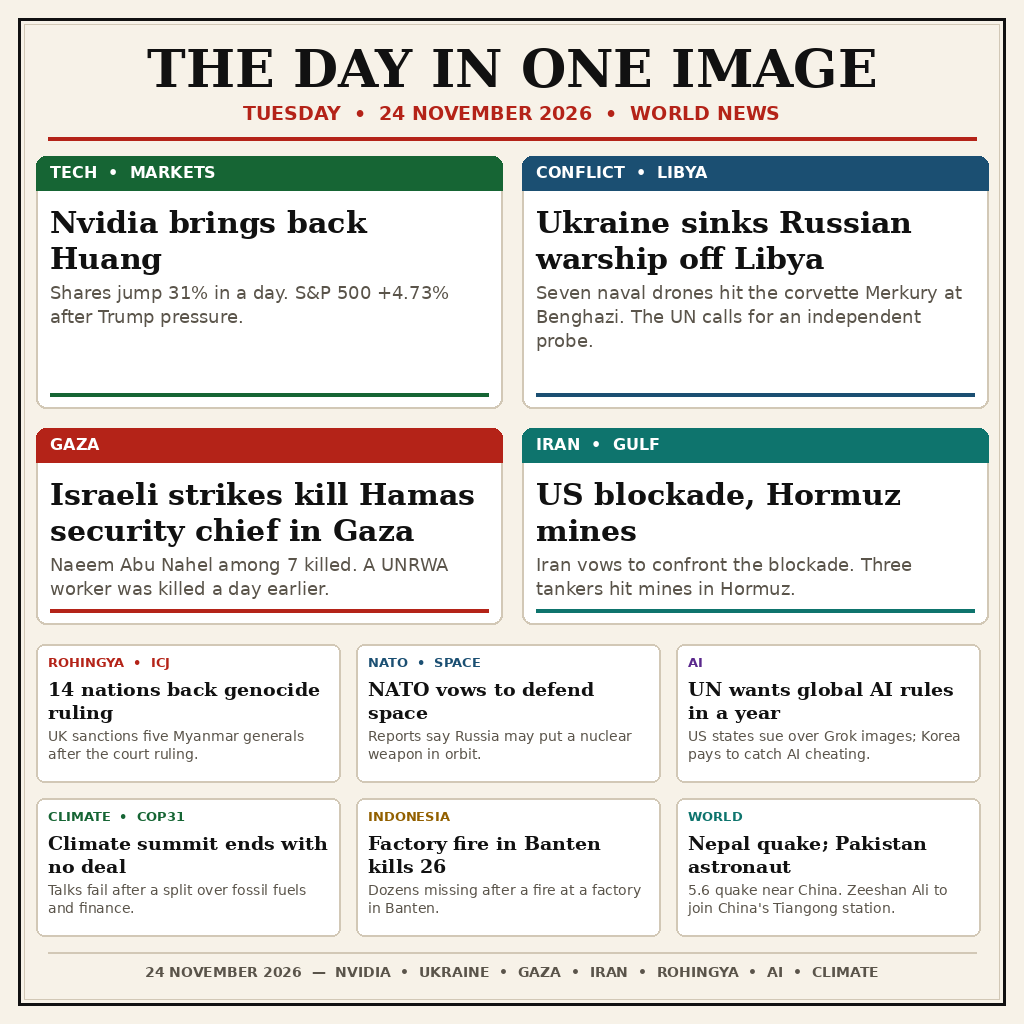
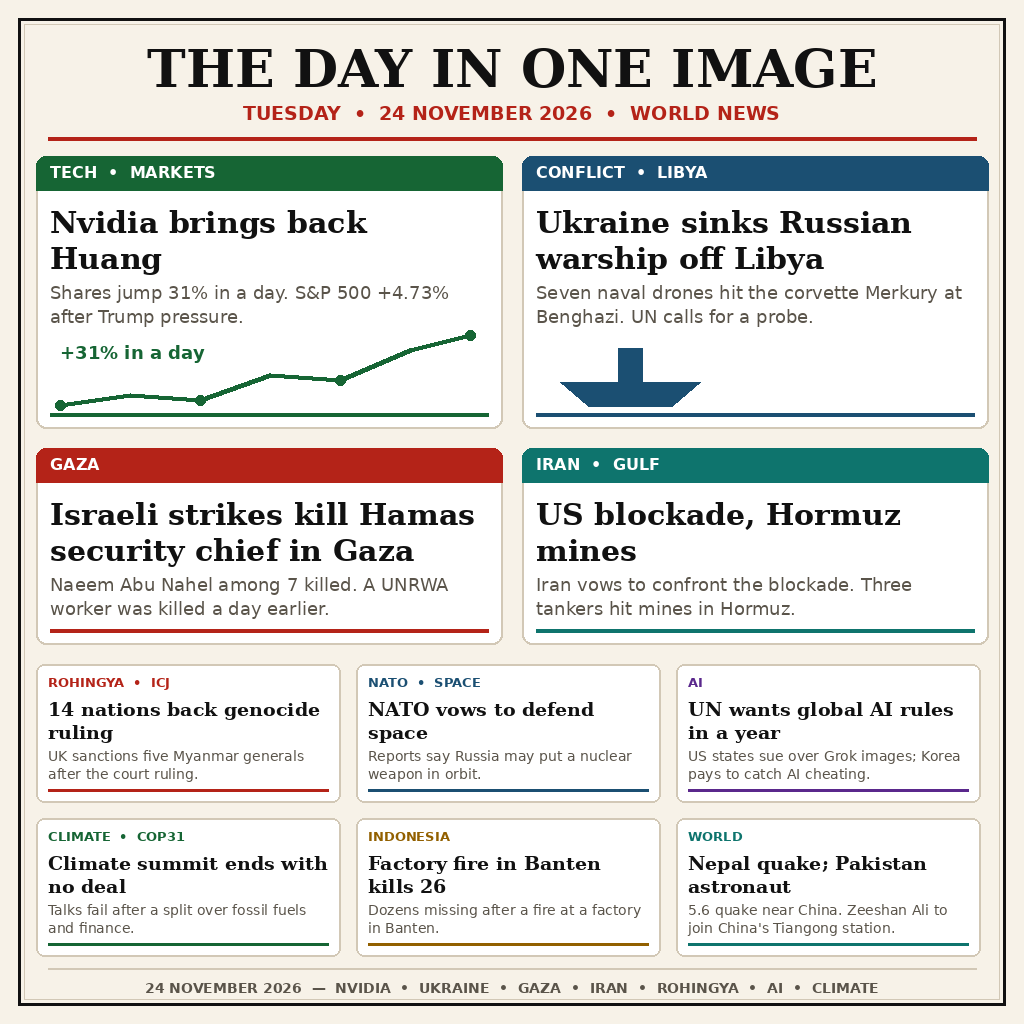
Improve lead visuals: chart and ship, colored card bars

diff --git a/build_image.py b/build_image.py
@@ -68,19 +68,29 @@ def panel(x, y, w, h, kicker, kcolor, headline, sub, accent):
     d.line([(x+14, y+h-14), (x+w-14, y+h-14)], fill=accent, width=4)
 
 # lead row
-panel(36, 156, 466, 252, "TECH  •  MARKETS", GREEN,
+panel(36, 156, 466, 272, "TECH  •  MARKETS", GREEN,
       "Nvidia brings back Huang",
       "Shares jump 31% in a day. S&P 500 +4.73% after Trump pressure.", GREEN)
 
-panel(522, 156, 466, 252, "CONFLICT  •  LIBYA", BLUE,
+panel(522, 156, 466, 272, "CONFLICT  •  LIBYA", BLUE,
       "Ukraine sinks Russian warship off Libya",
-      "Seven naval drones hit the corvette Merkury at Benghazi. The UN calls for an independent probe.", BLUE)
+      "Seven naval drones hit the corvette Merkury at Benghazi. UN calls for a probe.", BLUE)
+
+# visuals in the empty strip at the bottom of the lead panels (below the text)
+# Nvidia: rising chart, +31% label
+d.line([(60, 405), (130, 395), (200, 400), (270, 375), (340, 380), (410, 350), (470, 335)], fill=GREEN, width=5, joint="curve")
+for (px, py) in [(60, 405), (200, 400), (340, 380), (470, 335)]:
+    d.ellipse([px-5, py-5, px+5, py+5], fill=GREEN)
+d.text((60, 342), "+31% in a day", font=font(SANS_B, 18), fill=GREEN, anchor="la")
+# Libya: ship silhouette on waves
+d.rectangle([618, 348, 642, 382], fill=BLUE)
+d.polygon([(560, 382), (700, 382), (672, 406), (588, 406)], fill=BLUE)
 
 # second row
-panel(36, 428, 466, 196, "GAZA", RED,
+panel(36, 448, 466, 196, "GAZA", RED,
       "Israeli strikes kill Hamas security chief in Gaza",
       "Naeem Abu Nahel among 7 killed. A UNRWA worker was killed a day earlier.", RED)
-panel(522, 428, 466, 196, "IRAN  •  GULF", TEAL,
+panel(522, 448, 466, 196, "IRAN  •  GULF", TEAL,
       "US blockade, Hormuz mines",
       "Iran vows to confront the blockade. Three tankers hit mines in Hormuz.", TEAL)
 
@@ -96,15 +106,16 @@ cards = [
 cw, ch, gap = 304, 138, 16
 for i, (kick, head, sub, col) in enumerate(cards):
     x = 36 + (i % 3) * (cw + gap)
-    y = 644 + (i // 3) * (ch + gap)
+    y = 664 + (i // 3) * (ch + gap)
     d.rounded_rectangle([x, y, x+cw, y+ch], radius=8, fill=CARD, outline=LINE, width=2)
     d.text((x+12, y+10), kick, font=font(SANS_B, 13), fill=col)
     yy = draw_lines(d, wrap(d, head, font(SERIF_B, 19), cw-24), x+12, y+34, font(SERIF_B, 19), INK, 23)
     draw_lines(d, wrap(d, sub, font(SANS, 14), cw-24), x+12, yy+4, font(SANS, 14), MUTED, 18)
+    d.line([(x+12, y+ch-12), (x+cw-12, y+ch-12)], fill=col, width=3)
 
 # footer
-d.line([(48, 952), (976, 952)], fill=LINE, width=2)
-d.text((512, 964), "24 NOVEMBER 2026  —  NVIDIA  •  UKRAINE  •  GAZA  •  IRAN  •  ROHINGYA  •  AI  •  CLIMATE", font=font(SANS_B, 14), fill=MUTED, anchor="ma")
+d.line([(48, 968), (976, 968)], fill=LINE, width=2)
+d.text((512, 980), "24 NOVEMBER 2026  —  NVIDIA  •  UKRAINE  •  GAZA  •  IRAN  •  ROHINGYA  •  AI  •  CLIMATE", font=font(SANS_B, 14), fill=MUTED, anchor="ma")
 
 out = os.path.join(os.path.dirname(os.path.abspath(__file__)), "..", "entry.png")
 img.save(out, "PNG", optimize=True)
